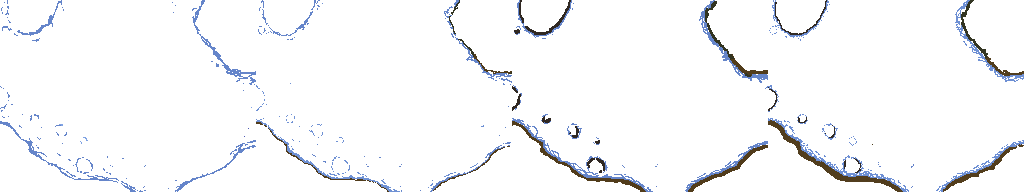
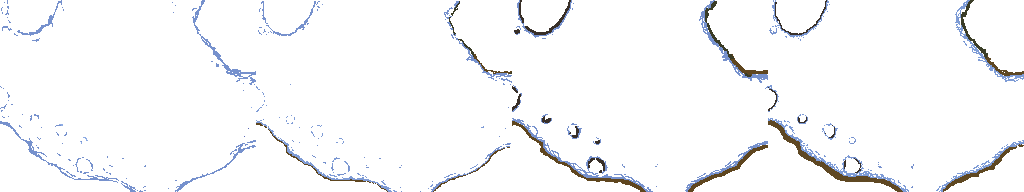
Added cursors and fixed waves. Made crab pots track time and state outside the day scene.

diff --git a/src/levels/day.ts b/src/levels/day.ts
@@ -1,6 +1,6 @@
 import { addSprite } from "../assetLoader";
 import { openBag } from "../bag";
-import { ANCHOR, COLORS, FISH_AMOUNT, FISH_TIMER, fishingArea, fontConfigSmall } from "../constants";
+import { ANCHOR, COLORS, FISH_AMOUNT, FISH_TIMER, fishingArea, fishingAreaWarning, fontConfigSmall } from "../constants";
 import { makeCrabPot } from "../crabPot";
 import { generateFishes } from "../entities/fishes";
 import { throwLine } from "../fishing";
@@ -19,12 +19,7 @@ export function day() {
     k.scene("day", async () => {
         let canCast = false;
         
-        
 
-        // Wait a tiny bit of time before allowing input
-
-
-        k.setCursor("default");
 
         // additional override since in some rare instances game state got stuck on catching.
         gm.enterState("fishing")
@@ -261,14 +256,55 @@ export function day() {
 
 
 
+        // cursors
+
+        k.setCursor("none");
+        
+        const CURSOR_1 = k.add([
+            k.sprite("cursor1"),
+            k.outline(1),
+            k.anchor("left"),
+            k.opacity(1),
+            k.pos(),
+            k.z(10),
+            "cursor1"
+        ]);
+        const CURSOR_2 = k.add([
+            k.sprite("cursor2"),
+            k.outline(1),
+            k.anchor("left"),
+            k.opacity(1),
+            k.pos(),
+            k.z(10),
+            "cursor2"
+        ]);
+
+        k.onUpdate(() => {
+            let cursor = CURSOR_1
+            if (!gm.logPopupOpen) {
+                cursor = fishingArea.hasPoint(k.mousePos()) ? CURSOR_2 : CURSOR_1
+                if (fishingArea.hasPoint(k.mousePos())) {
+                    CURSOR_1.opacity = 0
+                    CURSOR_2.opacity = 1
+                } else {
+                    CURSOR_1.opacity = 1
+                    CURSOR_2.opacity = 0
+                }
+            }
+
+            if (gm.spawnedFishExists) cursor.opacity = 0
+            else cursor.opacity = 1
+
+            cursor.moveTo(k.mousePos());
+        })
 
 
 
 
 
         // crab pots
-        if (gm.itemsUnlocked.includes("24")) makeCrabPot(k.width()-30, k.height()-60)
-        if (gm.itemsUnlocked.includes("25")) makeCrabPot(k.width()-60, k.height()-40)
+        if (gm.itemsUnlocked.includes("24")) makeCrabPot(k.width()-30, k.height()-60, "pot1")
+        if (gm.itemsUnlocked.includes("25")) makeCrabPot(k.width()-60, k.height()-40, "pot2")
         
         
 
@@ -277,8 +313,6 @@ export function day() {
             generateFishes(FISH_AMOUNT)
             gm.lastLogin = Date.now()
         }
-
-
 
 
         // this draws fish when returning to scene
@@ -296,9 +330,12 @@ export function day() {
         }
 
 
-        await k.wait(0.5, () => canCast = true);
+        
         
 
+        await k.wait(0.5, () => canCast = true);
+        
+        
         // Fishing rod Power bar
         const powerBar = k.add([
                 k.rect(2,0),

diff --git a/src/levels/menu.ts b/src/levels/menu.ts
@@ -1,6 +1,6 @@
 import k from "../kaplayCtx";
 import { addSprite } from "../assetLoader";
-import { COLORS, fontConfig } from "../constants";
+import { COLORS, fontConfig, fontConfigSmall } from "../constants";
 import { FISH_DATA } from "../db";
 import gm from "../gm";
 import { bubbleText, clickProcess, hoverProcess, makeButton, makeContainer, makeIcons, makeSlider } from "../ui";
@@ -12,7 +12,22 @@ import { tutorialPopup } from "../tutorial";
 
 export function menu() {
     k.scene("main-menu", () => {
-        k.setCursor("default");//make custom cursor
+        k.setCursor("none");
+        
+        const CURSOR_1 = k.add([
+            k.sprite("cursor1"),
+            k.anchor("left"),
+            k.pos(),
+            k.z(10),
+        ]);
+        k.onUpdate(() => {
+            if (gm.isPotOneSubmerged || gm.isPotTwoSubmerged ) {
+                gm.accumulatedTime += 1
+            }
+            CURSOR_1.moveTo(k.mousePos())
+        });
+        
+
         
         let background = gm.nightTime ? "nightMenuScreen" : "dayMenuScreen";
         addSprite(background)
@@ -137,6 +152,18 @@ export function menu() {
             if (gm.logPopupOpen) return;
             hoverProcess(log);
         })
+
+
+        k.add([
+            k.text("Made by ArturT995", fontConfigSmall),
+            k.anchor("right"),
+            k.pos(k.width() - 5, k.height() - 5),
+            k.color(chosenColor),
+            k.area(),
+            k.opacity(1),
+            k.scale(1),
+            k.z(4),
+        ]);
 
         k.onSceneLeave(() => {
             bgMusic.stop();

diff --git a/src/crabPot.ts b/src/crabPot.ts
@@ -5,7 +5,7 @@ import k from "./kaplayCtx";
 import { message } from "./messages";
 
 
-export function makeCrabPot(posY: number, posX: number) {
+export function makeCrabPot(posY: number, posX: number, name: string) {
     const pot = k.add([
             k.sprite("crabpot", { anim: "idle" }),
             k.pos(posY,posX),
@@ -42,6 +42,8 @@ export function makeCrabPot(posY: number, posX: number) {
         pot.onClick(() => {
             if (pot.state === "idle") {
                 pot.enterState("submerged");
+                if (name === "pot1") gm.isPotOneSubmerged = true
+                if (name === "pot2") gm.isPotTwoSubmerged = true
             } else if (pot.state === "ready"){
                 gm.addFish(chosenCrab.fishId);
                 gm.unlockFish(chosenCrab.fishId);
@@ -50,16 +52,25 @@ export function makeCrabPot(posY: number, posX: number) {
             }
         });
 
-        let potTimer = k.randi(FISH_TIMER/1.5,FISH_TIMER)
+        let potTimer = FISH_TIMER/100 - gm.accumulatedTime/10
         pot.onUpdate(() => {
+            if (gm.isPotOneSubmerged && name === "pot1") pot.enterState("submerged");
+            if (gm.isPotTwoSubmerged && name === "pot2") pot.enterState("submerged");
+            
             if (pot.state === "submerged") {
-                potTimer -= 1
+                if (gm.accumulatedTime > 0) {
+                    potTimer -= gm.accumulatedTime/100
+                    gm.accumulatedTime = 0;
+                }  
+                potTimer -= k.dt()
             }
 
             if (potTimer <= 0) {
+                if (name === "pot1") gm.isPotOneSubmerged = false
+                if (name === "pot2") gm.isPotTwoSubmerged = false
                 pot.enterState("ready")
                 message("Crabpot caught something.")
-                potTimer = k.randi(FISH_TIMER/1.5,FISH_TIMER)
+                potTimer = k.randi(FISH_TIMER/1.5,FISH_TIMER)/100
             }
         })
 }

diff --git a/src/entities/fishes.ts b/src/entities/fishes.ts
@@ -126,7 +126,7 @@ export function makeFish(fish: FishObj, pos: Vec2) {
         k.area(),
         k.color(randomColor),
         k.rotate(0),
-        k.state("idle", ["idle", "notice", "move", "pursue", "hooked"]),
+        k.state("move", ["idle", "notice", "move", "pursue", "hooked"]),
         {   
             fishId: fish.fishId,
             name: fish.name,
@@ -218,10 +218,6 @@ export function makeFish(fish: FishObj, pos: Vec2) {
     ]);
 
 
-    entity.onStateEnter("idle", async () => {
-        entity.enterState("move");
-    })
-
     // color mode
     entity.onKeyPress("t", () => {
         entity.randomColors()
@@ -280,7 +276,6 @@ export function makeFish(fish: FishObj, pos: Vec2) {
         if (entity.state === "move") {
             if (entity.pos.dist(target) < 5) {
                 entity.currentWaypoint = (entity.currentWaypoint + 1) % entity.waypoints.length;
-                entity.enterState("idle");
             };
 
             const turnDt = k.dt() * 120
@@ -298,7 +293,7 @@ export function makeFish(fish: FishObj, pos: Vec2) {
         if (entity.state === "pursue") {
             const bobber = k.get("bobber")[0];
             if (!bobber || gm.state === "catching") {
-                entity.enterState("idle");
+                entity.enterState("move");
             } else {
                 const dir = bobber.pos.sub(entity.pos).unit();
                 //const mouseDir = k.mousePos().sub(entity.pos).unit();
@@ -314,7 +309,7 @@ export function makeFish(fish: FishObj, pos: Vec2) {
             fishHooked = true
             const bobber = k.get("bobber")[0];
             if (!bobber) {
-                entity.enterState("idle");
+                entity.enterState("move");
                 fishHooked = false
             } else {
                 entity.use(k.follow(bobber, k.vec2(0, 0)));
@@ -385,13 +380,13 @@ export function makeFish(fish: FishObj, pos: Vec2) {
     entity.onStateEnter("hooked", () => {
         const bobber = k.get("bobber")[0];
         if (!bobber){
-            entity.enterState("idle");
+            entity.enterState("move");
         }
     })
 
 
     entity.onStateEnter("notice", async () => {
-        if (fishHooked && gm.spawnedFishExists) entity.enterState("idle");
+        if (fishHooked && gm.spawnedFishExists) entity.enterState("move");
         playSound("icon-sound-1", "sfx", -0.3, false, 1000)
         entity.add([
             k.rect(1, 1),

diff --git a/src/levels/shop.ts b/src/levels/shop.ts
@@ -10,7 +10,20 @@ import { makeContainer, makeButton, makeIcons, clickProcess, hoverProcess } from
 
 export function shop() {
     k.scene("shop", () => {
-        k.setCursor("default");
+        k.setCursor("none")
+        const CURSOR_1 = k.add([
+            k.sprite("cursor1"),
+            k.anchor("left"),
+            k.pos(),
+            k.z(10),
+        ]);
+        
+        k.onUpdate(() => {
+            if (gm.isPotOneSubmerged || gm.isPotTwoSubmerged ) {
+                gm.accumulatedTime += 1
+            }
+            CURSOR_1.moveTo(k.mousePos())
+        });
 
         // additional override since in some rare instances game state got stuck on catching.
         gm.enterState("fishing")

diff --git a/src/constants.ts b/src/constants.ts
@@ -9,7 +9,19 @@ export const FISH_TIMER = 3500;
 export const FISH_AMOUNT = 14
 export const ANCHOR = k.vec2(k.width() / 2 - 1, k.height() - 47)
 
+export const CURSOR_1 = k.add([
+    k.sprite("cursor1"),
+    k.anchor("center"),
+    k.pos(),
+    k.z(10),
+]);
 
+export const CURSOR_2 = k.add([
+    k.sprite("cursor2"),
+    k.anchor("center"),
+    k.pos(),
+    k.z(10),
+]);
 
 export const COLORS = {
     WHITE: k.rgb(255, 255, 255),  

diff --git a/src/gm.ts b/src/gm.ts
@@ -29,10 +29,14 @@ interface GameManager extends GameObj {
     baitPower: number;
     lastLogin: number;
     keyUsed: boolean;
+    isPotOneSubmerged: boolean;
+    isPotTwoSubmerged: boolean;
+    accumulatedTime: number;
     debug: boolean;
     noticeArea: number;
     keyboardMode: boolean;
     spawnedFishExists: boolean;
+
 
     saveProgress(): void;
 
@@ -197,7 +201,11 @@ function makeGameManager() {
             spawnedFishExists: false,
             fishTimer: 0,
             keyUsed: false,
+            isPotOneSubmerged: false,
+            isPotTwoSubmerged: false,
+            accumulatedTime: 0,
             debug: true, // TODO: set to false in release
+
 
             noticeArea: (currentRod.catchArea ?? 10) + 5,
 

diff --git a/src/assetLoader.ts b/src/assetLoader.ts
@@ -11,7 +11,9 @@ export async function assetLoader() {
     
     k.loadSprite("sunIcon", "./graphics/sunIcon.png")
     k.loadSprite("moonIcon", "./graphics/moonIcon.png")
-    //k.loadSprite("titlebox", "./graphics/titlebox.png")
+    
+    k.loadSprite("cursor1", "./graphics/cursor1.png")
+    k.loadSprite("cursor2", "./graphics/cursor2.png")
 
     k.loadSprite("shop-bg", "./graphics/shop-bg.png")
     k.loadSprite("night-shop", "./graphics/night-shop.png")

diff --git a/src/fishing.ts b/src/fishing.ts
@@ -160,7 +160,7 @@ export function throwLine(anchor: Vec2, power: number) {
         // difficulty modifications here
         if (bobber.state === "catching") {
             k.destroy(noticeArea);
-            k.setCursor("none");
+            
             catchTime -= 0.02
             if (!gm.keyboardMode) reelingArea.pos = k.mousePos()           
 
@@ -233,7 +233,6 @@ export function throwLine(anchor: Vec2, power: number) {
                 const fish = FISH_DATA.find(fish=> fish.fishId === fishId)
                 if (fish === undefined) throw new Error("Fish undefined")
                 
-                k.setCursor("default");
 
                 reelSound.paused = true;
                 reelSound.stop();

diff --git a/src/messages.ts b/src/messages.ts
@@ -14,6 +14,8 @@ export function message(text: string) {
         k.anchor("left"),
         k.color(COLORS.BEIGE),
         k.z(8),
+        k.area(),
+        k.body(),
         k.lifespan(2, { fade: 0.5 }),
         k.opacity(1),
         "message",

diff --git a/src/levels/sleepScene.ts b/src/levels/sleepScene.ts
@@ -10,6 +10,7 @@ export function sleepScene() {
     
 
     k.scene("sleep-scene", async () => {
+        k.setCursor("none");
 
         k.add([
             k.rect(k.height(), k.width()),